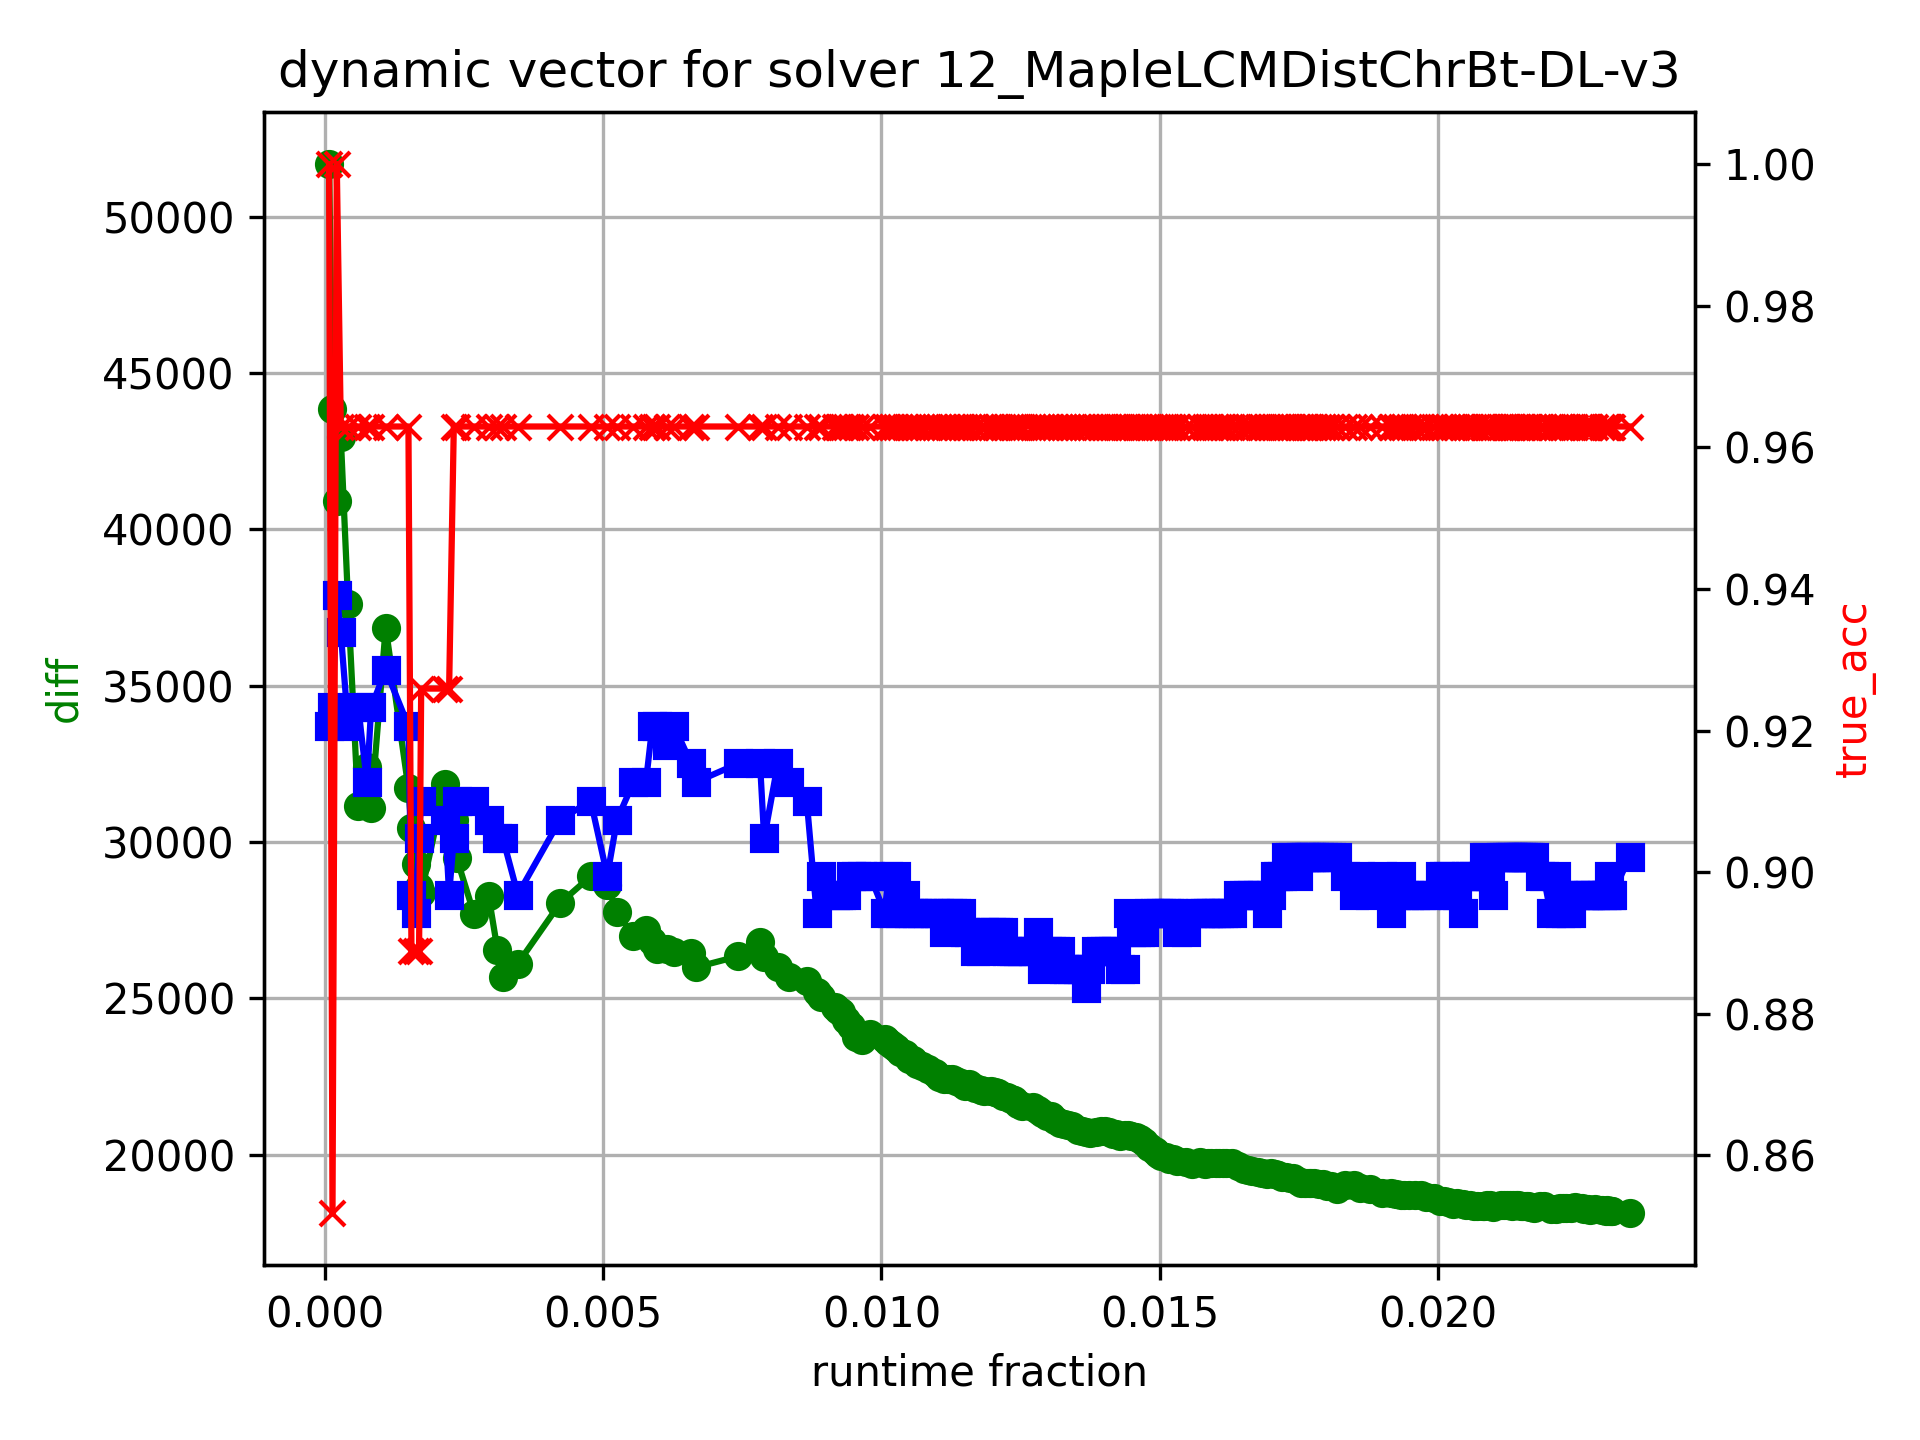
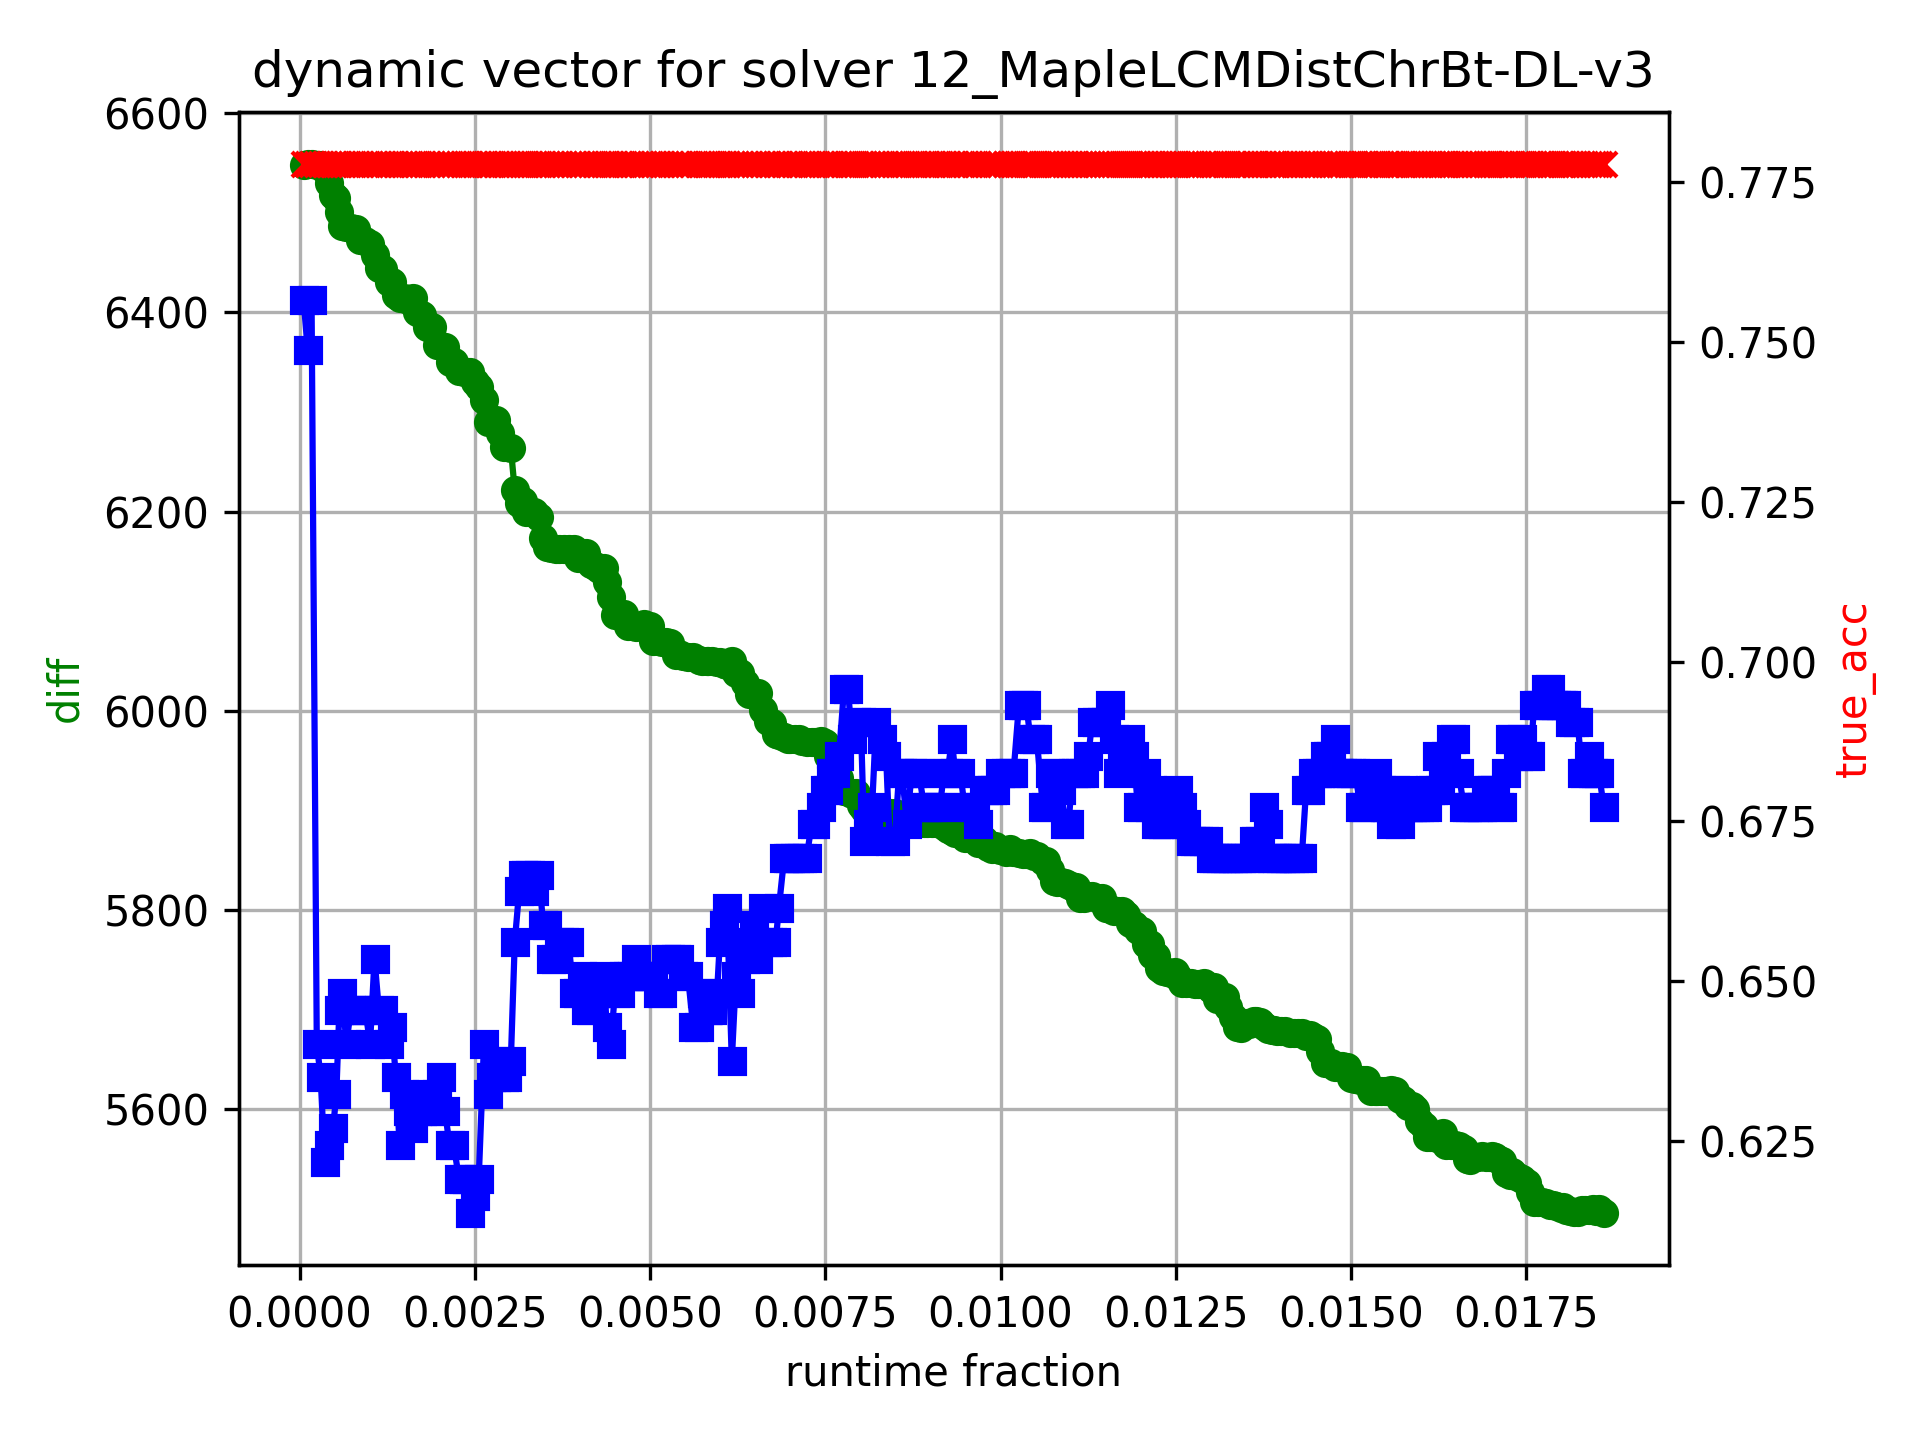
feat: new plots and test if its possible to only min diff and take par2 from knowledge

diff --git a/src/al_experiments.py b/src/al_experiments.py
@@ -618,15 +618,15 @@ def determine_tresholds(
 
 
 def get_stats(df_rated, df_runtimes, par_2_scores_series, par_2_scores, runtimes, thresholds, solver_index, acc_calculator: accuracy, progress: str):
-    diff = acc_calculator.vec_to_diff(thresholds, runtimes, par_2_scores, par_2_scores.mean())
+    runtimes_rated = np.ascontiguousarray(
+        df_rated.copy(), dtype=np.float32
+    )
+    diff = acc_calculator.vec_to_diff(thresholds, runtimes_rated, par_2_scores, par_2_scores.mean(), solver_index)
     par_2_scores = np.ascontiguousarray(
         par_2_scores_series, dtype=np.float32
     )
     runtimes_unrated = np.ascontiguousarray(
         df_runtimes.copy(), dtype=np.float32
-    )
-    runtimes_rated = np.ascontiguousarray(
-        df_rated.copy(), dtype=np.float32
     )
     true_acc = acc_calculator.vec_to_true_acc(
         thresholds, runtimes_rated, par_2_scores, solver_index
@@ -642,6 +642,39 @@ def get_stats(df_rated, df_runtimes, par_2_scores_series, par_2_scores, runtimes
 
 if __name__ == "__main__":
 
+    random_baseline_whole_instances_runtime_frac = np.array([0.012854, 0.014792, 0.016731, 0.018669, 0.020608, 0.022546, 0.024485, 0.026423, 0.028362, 0.030300, 0.032239, 0.034177, 0.036116, 0.038054, 0.039993, 0.041931, 0.043869, 0.045808, 0.047746, 0.049685, 0.051623, 0.053562, 0.055500, 0.057439, 0.059377, 0.061316, 0.063254, 0.065193, 0.067131, 0.069070, 0.071008, 0.072946, 0.074885, 0.076823, 0.078762, 0.080700, 0.082639, 0.084577, 0.086516, 0.088454, 0.090393, 0.092331, 0.094270, 0.096208, 0.098147, 0.100085, 0.102023, 0.103962, 0.105900, 0.107839, 0.109777, 0.111716, 0.113654, 0.115593, 0.117531, 0.119470, 0.121408, 0.123347, 0.125285, 0.127223, 0.129162, 0.131100, 0.133039, 0.134977, 0.136916, 0.138854, 0.140793, 0.142731, 0.144670, 0.146608, 0.148547, 0.150485, 0.152424, 0.154362, 0.156300, 0.158239, 0.160177, 0.162116, 0.164054, 0.165993, 0.167931, 0.169870, 0.171808, 0.173747, 0.175685, 0.177624, 0.179562, 0.181501, 0.183439, 0.185377, 0.187316, 0.189254, 0.191193, 0.193131, 0.195070, 0.197008, 0.198947, 0.200885, 0.202824, 0.204762])   
+    random_baseline_whole_instances_true_acc = np.array([0.800671, 0.815994, 0.831123, 0.840869, 0.849788, 0.858210, 0.865402, 0.871996, 0.876478, 0.881804, 0.886714, 0.890490, 0.896291, 0.900608, 0.902859, 0.904178, 0.904763, 0.904025, 0.901968, 0.900711, 0.901171, 0.902492, 0.905383, 0.909716, 0.913746, 0.917232, 0.920133, 0.920813, 0.920997, 0.920607, 0.919150, 0.919176, 0.919301, 0.920650, 0.923952, 0.927819, 0.931296, 0.933643, 0.935445, 0.936112, 0.935805, 0.934204, 0.931470, 0.928752, 0.925632, 0.923231, 0.921840, 0.920926, 0.921713, 0.922844, 0.925048, 0.927268, 0.928746, 0.929591, 0.929659, 0.929496, 0.929816, 0.929342, 0.928226, 0.927260, 0.927368, 0.928662, 0.930807, 0.932590, 0.933650, 0.934468, 0.934882, 0.934914, 0.934747, 0.934176, 0.932449, 0.930397, 0.928821, 0.928179, 0.928629, 0.929744, 0.932620, 0.936301, 0.940253, 0.943307, 0.945378, 0.946918, 0.947236, 0.946021, 0.945092, 0.943900, 0.943051, 0.942690, 0.942132, 0.941903, 0.942127, 0.942416, 0.942220, 0.941933, 0.941853, 0.941881, 0.942131, 0.943495, 0.945489, 0.946260])
+
+    random_baseline_dynamic_timeout_runtime_frac = np.array([0.000233, 0.002042, 0.003850, 0.005658, 0.007467, 0.009275, 0.011083, 0.012891, 0.014700, 0.016508, 0.018316, 0.020125, 0.021933, 0.023741, 0.025550, 0.027358, 0.029166, 0.030974, 0.032783, 0.034591, 0.036399, 0.038208, 0.040016, 0.041824, 0.043633, 0.045441, 0.047249, 0.049057, 0.050866, 0.052674, 0.054482, 0.056291, 0.058099, 0.059907, 0.061716, 0.063524, 0.065332, 0.067140, 0.068949, 0.070757, 0.072565, 0.074374, 0.076182, 0.077990, 0.079799, 0.081607, 0.083415, 0.085223, 0.087032, 0.088840, 0.090648, 0.092457, 0.094265, 0.096073, 0.097882, 0.099690, 0.101498, 0.103306, 0.105115, 0.106923, 0.108731, 0.110540, 0.112348, 0.114156, 0.115965, 0.117773, 0.119581, 0.121389, 0.123198, 0.125006, 0.126814, 0.128623, 0.130431, 0.132239, 0.134048, 0.135856, 0.137664, 0.139472, 0.141281, 0.143089, 0.144897, 0.146706, 0.148514, 0.150322, 0.152131, 0.153939, 0.155747, 0.157555, 0.159364, 0.161172, 0.162980, 0.164789, 0.166597, 0.168405, 0.170214, 0.172022, 0.173830, 0.175639, 0.177447, 0.179255])    
+    random_baseline_dynamic_timeout_true_acc = np.array([0.732619, 0.856523, 0.868901, 0.882169, 0.883973, 0.879346, 0.891275, 0.891847, 0.894557, 0.893746, 0.896611, 0.890922, 0.901432, 0.908260, 0.902582, 0.907933, 0.902097, 0.899038, 0.903821, 0.906894, 0.902879, 0.908655, 0.909097, 0.908730, 0.907207, 0.907966, 0.913631, 0.907616, 0.909618, 0.910934, 0.907407, 0.903917, 0.904092, 0.898227, 0.900781, 0.906085, 0.903549, 0.907407, 0.898499, 0.898975, 0.908635, 0.903020, 0.900988, 0.906085, 0.907647, 0.908730, 0.911376, 0.901478, 0.901609, 0.904755, 0.908892, 0.903957, 0.899471, 0.902021, 0.899832, 0.903703, 0.903439, 0.903439, 0.904762, 0.912901, 0.915254, 0.914959, 0.911376, 0.915344, 0.918822, 0.915219, 0.914615, 0.914226, 0.915344, 0.916667, 0.915344, 0.919312, 0.921950, 0.916537, 0.917989, 0.914153, 0.924477, 0.927364, 0.916797, 0.918372, 0.919452, 0.923439, 0.923394, 0.929894, 0.927249, 0.925926, 0.929395, 0.928561, 0.928181, 0.924603, 0.932270, 0.932540, 0.933759, 0.931217, 0.935059, 0.935185, 0.933862, 0.937831, 0.933847, 0.931217])
+
+    variance_based_selection_runtime_frac = np.array([0.002298, 0.003724, 0.005151, 0.006578, 0.008004, 0.009431, 0.010858, 0.012284, 0.013711, 0.015138, 0.016564, 0.017991, 0.019418, 0.020844, 0.022271, 0.023698, 0.025124, 0.026551, 0.027978, 0.029404, 0.030831, 0.032258, 0.033685, 0.035111, 0.036538, 0.037965, 0.039391, 0.040818, 0.042245, 0.043671, 0.045098, 0.046525, 0.047951, 0.049378, 0.050805, 0.052231, 0.053658, 0.055085, 0.056511, 0.057938, 0.059365, 0.060791, 0.062218, 0.063645, 0.065071, 0.066498, 0.067925, 0.069351, 0.070778, 0.072205, 0.073631, 0.075058, 0.076485, 0.077911, 0.079338, 0.080765, 0.082192, 0.083618, 0.085045, 0.086472, 0.087898, 0.089325, 0.090752, 0.092178, 0.093605, 0.095032, 0.096458, 0.097885, 0.099312, 0.100738, 0.102165, 0.103592, 0.105018, 0.106445, 0.107872, 0.109298, 0.110725, 0.112152, 0.113578, 0.115005, 0.116432, 0.117858, 0.119285, 0.120712, 0.122138, 0.123565, 0.124992, 0.126418, 0.127845, 0.129272, 0.130699, 0.132125, 0.133552, 0.134979, 0.136405, 0.137832, 0.139259, 0.140685, 0.142112, 0.143539])  
+    variance_based_selection_true_acc = np.array([0.802179, 0.815325, 0.821714, 0.829112, 0.837802, 0.840405, 0.844817, 0.848778, 0.849851, 0.850670, 0.851558, 0.852389, 0.854510, 0.859935, 0.867421, 0.874355, 0.878819, 0.880730, 0.882847, 0.884688, 0.886474, 0.889573, 0.891923, 0.893214, 0.894246, 0.895334, 0.896721, 0.898168, 0.899581, 0.901787, 0.904594, 0.907746, 0.910952, 0.913655, 0.914495, 0.914601, 0.913331, 0.912274, 0.912282, 0.912549, 0.913679, 0.914232, 0.913793, 0.913313, 0.912863, 0.914563, 0.915963, 0.916391, 0.916623, 0.916497, 0.916864, 0.917380, 0.917660, 0.918070, 0.918479, 0.919161, 0.919485, 0.920138, 0.920728, 0.920082, 0.919787, 0.919767, 0.920038, 0.921426, 0.923065, 0.924713, 0.926290, 0.928292, 0.929882, 0.931300, 0.933537, 0.935675, 0.937343, 0.938549, 0.939656, 0.940860, 0.942117, 0.943115, 0.944101, 0.945142, 0.945847, 0.946553, 0.947267, 0.947982, 0.948820, 0.949580, 0.950248, 0.950471, 0.950756, 0.950920, 0.950967, 0.950896, 0.950823, 0.951183, 0.951512, 0.951840, 0.952168, 0.952497, 0.952472, 0.952381]) 
+
+    dynamic_timeout_optimized_runtime_frac = np.array([0.001427, 0.002411, 0.003394, 0.004377, 0.005361, 0.006344, 0.007327, 0.008311, 0.009294, 0.010277, 0.011261, 0.012244, 0.013227, 0.014211, 0.015194, 0.016178, 0.017161, 0.018144, 0.019128, 0.020111, 0.021094, 0.022078, 0.023061, 0.024044, 0.025028, 0.026011, 0.026994, 0.027978, 0.028961, 0.029944, 0.030928, 0.031911, 0.032894, 0.033878, 0.034861, 0.035845, 0.036828, 0.037811, 0.038795, 0.039778, 0.040761, 0.041745, 0.042728, 0.043711, 0.044695, 0.045678, 0.046661, 0.047645, 0.048628, 0.049611, 0.050595, 0.051578, 0.052561, 0.053545, 0.054528, 0.055512, 0.056495, 0.057478, 0.058462, 0.059445, 0.060428, 0.061412, 0.062395, 0.063378, 0.064362, 0.065345, 0.066328, 0.067312, 0.068295, 0.069278, 0.070262, 0.071245, 0.072228, 0.073212, 0.074195, 0.075179, 0.076162, 0.077145, 0.078129, 0.079112, 0.080095, 0.081079, 0.082062, 0.083045, 0.084029, 0.085012, 0.085995, 0.086979, 0.087962, 0.088945, 0.089929, 0.090912, 0.091895, 0.092879, 0.093862, 0.094845, 0.095829, 0.096812, 0.097796, 0.098779]) 
+    dynamic_timeout_optimized_true_acc = np.array([0.915045, 0.911842, 0.903083, 0.905274, 0.909750, 0.923364, 0.930298, 0.930972, 0.930386, 0.918715, 0.921096, 0.926069, 0.924703, 0.917278, 0.918582, 0.916526, 0.913898, 0.919391, 0.919613, 0.920864, 0.918878, 0.919720, 0.919967, 0.919121, 0.921070, 0.918207, 0.912812, 0.909581, 0.907517, 0.907499, 0.908177, 0.907898, 0.906824, 0.903456, 0.905493, 0.906737, 0.904698, 0.904792, 0.905999, 0.905993, 0.904649, 0.902110, 0.899954, 0.897426, 0.893337, 0.892723, 0.895743, 0.893570, 0.893444, 0.894502, 0.894002, 0.889396, 0.890087, 0.892857, 0.894163, 0.896261, 0.897140, 0.900478, 0.901393, 0.903588, 0.899612, 0.900736, 0.897163, 0.894490, 0.898444, 0.900974, 0.902380, 0.900323, 0.901981, 0.899697, 0.897681, 0.901584, 0.899075, 0.897663, 0.897110, 0.896737, 0.897074, 0.893708, 0.894759, 0.895580, 0.895503, 0.894948, 0.896996, 0.894498, 0.892857, 0.892041, 0.891571, 0.892358, 0.892372, 0.894156, 0.889654, 0.894529, 0.897532, 0.900728, 0.902143, 0.901996, 0.902031, 0.904149, 0.906475, 0.906085]) 
+
+    al_runtime_frac = np.array([0.02106387, 0.02159122, 0.02176197, 0.02385467, 0.02522425, 0.02807994, 0.05256794, 0.14633324])
+    al_true_acc = np.array([0.59288538, 0.6798419,  0.69762846, 0.76482213, 0.77865613, 0.80237154, 0.82411067, 0.8972332])
+
+    plt.figure(figsize=(10, 6))
+    plt.plot(random_baseline_whole_instances_runtime_frac, random_baseline_whole_instances_true_acc, marker='x', label="random instances")
+    plt.plot(random_baseline_dynamic_timeout_runtime_frac, random_baseline_dynamic_timeout_true_acc, marker='x', label="random dynamic timeout")
+    plt.plot(variance_based_selection_runtime_frac, variance_based_selection_true_acc, marker='x', label="variance based selection")
+    plt.plot(dynamic_timeout_optimized_runtime_frac, dynamic_timeout_optimized_true_acc, marker='x', label="dynamic timeout optimized")
+    #plt.plot(al_runtime_frac, al_true_acc, marker='x', label="active learning")
+    plt.legend()
+    plt.xlabel("Fraction of Runtime")
+    plt.xlim(right=0.1)
+    plt.ylabel("Ranking Accuracy")
+    plt.title("Comparision of different instance selection methods")
+    plt.grid(True, linestyle="--", alpha=0.5)
+    plt.tight_layout()
+    # Show or save
+    plt.show()
+    #plt.savefig("instance_histogram.png", dpi=300)
+    
+    
     push_notification("start test")
 
     acc_calculator = accuracy()
@@ -722,9 +755,9 @@ if __name__ == "__main__":
 
         acc_calculator.print_key_signature(thresholds, runtimes, par_2_scores)
 
-        par_2_diff = acc_calculator.vec_to_diff(thresholds, runtimes, par_2_scores, par_2_scores.mean())
+        #par_2_diff = acc_calculator.vec_to_diff(thresholds, runtimes, par_2_scores, par_2_scores.mean(), index)
 
-        print(f"difference of both scores is {par_2_diff}")
+        #print(f"difference of both scores is {par_2_diff}")
 
         print(f"adding solver {par_2_scores_series.index[solver_index]} back in")
 
@@ -756,7 +789,7 @@ if __name__ == "__main__":
 
         results.iloc[
             solver_index, results.columns.get_loc('Par2Diff')
-        ] = par_2_diff
+        ] = 0#par_2_diff
         results.iloc[
             solver_index, results.columns.get_loc('CrossAcc')
         ] = cross_acc

diff --git a/src/al_experiments/accuracy.py b/src/al_experiments/accuracy.py
@@ -24,37 +24,19 @@ class accuracy:
             prev_max_acc: float,
             prev_min_diff: float
     ):
-        while (True):
-            if self.n % 2 == 0:
-                best_instances, max_acc = self.find_all_best_indices_max_cross_acc(thresholds, runtimes, par_2_scores, mean_par_2_score, runtime_to_add)
-                if (best_instances.size == 0):
-                    return thresholds, prev_max_acc, -1 
-                best_instances, min_diff = self.find_best_index_min_diff(thresholds, runtimes, par_2_scores, mean_par_2_score, runtime_to_add, best_instances)
-                if self.sub_optimal_acc_maxing(max_acc, prev_max_acc):
-                    runtime_to_add *= 2
-                    if runtime_to_add >= 5000:
-                        self.n += 1
-                        return thresholds, prev_max_acc * 0.99, prev_min_diff
-                    print(f"again with {runtime_to_add}")
-                else:
-                    break
-            else:
-                best_instances, min_diff = self.find_best_index_min_diff(thresholds, runtimes, par_2_scores, mean_par_2_score, runtime_to_add)
-                if (best_instances.size == 0):
-                    return thresholds, prev_max_acc, -1 
-                best_instances, max_acc = self.find_all_best_indices_max_cross_acc(thresholds, runtimes, par_2_scores, mean_par_2_score, runtime_to_add, best_instances)
-                if self.sub_optimal_diff_mining(min_diff, prev_min_diff):
-                    runtime_to_add *= 2
-                    if runtime_to_add >= 5000:
-                        self.n += 1
-                        return thresholds, prev_max_acc, prev_min_diff * 1.01
-                    print(f"again with {runtime_to_add}")
-                else:
-                    break
+        best_instances, min_diff = self.find_best_index_min_diff(thresholds, runtimes, par_2_scores, mean_par_2_score, runtime_to_add)
+        if (best_instances.size == 0):
+            return thresholds, prev_max_acc, -1 
+        if self.sub_optimal_diff_mining(min_diff, prev_min_diff):
+            runtime_to_add *= 2
+            if runtime_to_add >= 5000:
+                self.n += 1
+                return thresholds, prev_max_acc, prev_min_diff * 1.01
+            print(f"again with {runtime_to_add}")
 
         thresholds[best_instances[0]] += runtime_to_add
         self.n += 1
-        return thresholds, max_acc, min_diff
+        return thresholds, prev_max_acc, prev_min_diff
 
     def sub_optimal_acc_maxing(self, new_acc: float, prev_acc: float):
         return new_acc <= prev_acc
@@ -306,9 +288,10 @@ class accuracy:
             thresholds: np.ndarray[np.floating[np.float32]],
             runtimes: np.ndarray[np.floating[np.float32]],
             true_par_2,
-            true_par_2_mean: float
+            true_par_2_mean: float,
+            removed_index: int 
     ):
-        pred_par_2 = self.vec_to_pred_punish_thresh(thresholds, runtimes)
+        pred_par_2 = np.delete(self.vec_to_pred(thresholds, runtimes), removed_index)
 
         return self.similarity(true_par_2, pred_par_2, true_par_2_mean)
 
@@ -328,11 +311,13 @@ class accuracy:
             self,
             thresholds: np.ndarray[np.floating[np.float32]],
             runtimes: np.ndarray[np.floating[np.float32]],
-            true_par_2,
+            true_par_2: np.ndarray,
             index: int
     ):
-        pred_par_2 = self.vec_to_pred(thresholds, runtimes, 10000)
+        pred_par_2_for_this_solver = self.vec_to_pred(thresholds, runtimes, 10000)[index]
 
+        pred_par_2 = true_par_2.copy()
+        pred_par_2[index] = pred_par_2_for_this_solver
         return self.calc_true_acc_1(true_par_2, pred_par_2, index)
 
     def determine_acc(self, actu: np.ndarray, pred: np.ndarray):
